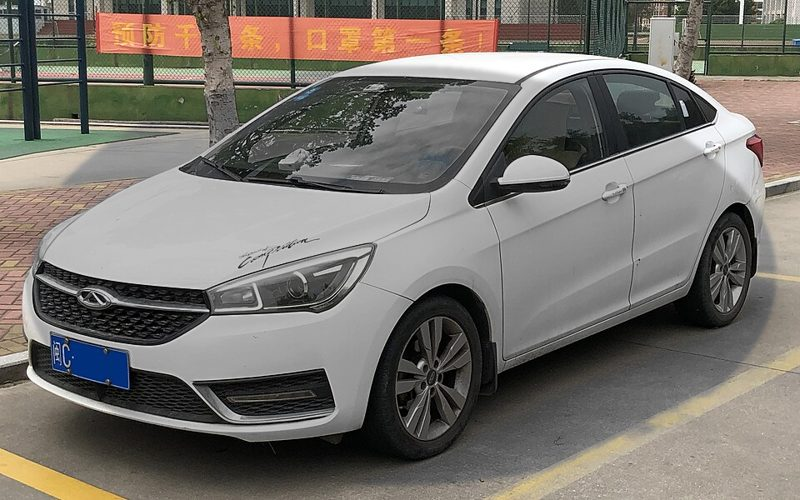
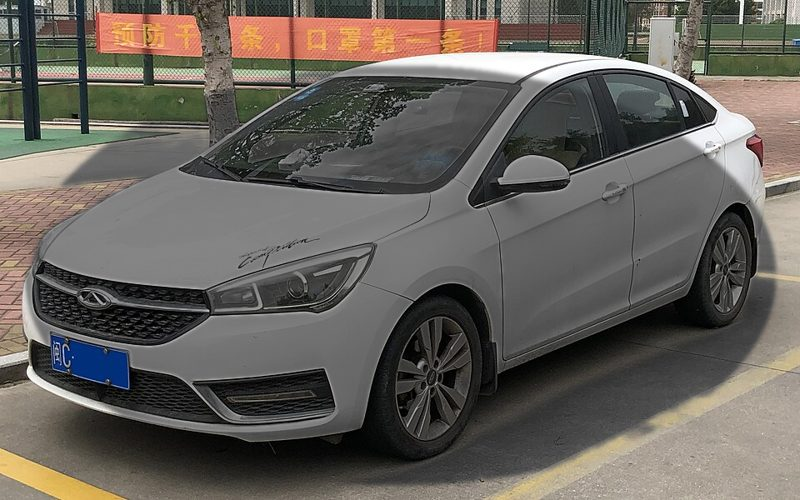
تغميق صورة الشيري للون الرمادي
Claude-Session: https://claude.ai/code/session_01X6gWDs2cVX9V54q5mTENv8

diff --git a/ijar/app.js b/ijar/app.js
@@ -6,7 +6,7 @@
 
   var COLORS = { 'أبيض': '#F7F8FA', 'فضي': '#C3C8CE', 'رمادي': '#8C9299', 'رصاصي': '#5F656C', 'أسود': '#1F2328' };
   var CARS = [
-    { plate: 'أ ص ع 2044', serial: '62395910', name: 'شيري اريزو 5', en: 'Chery Arrizo 5', brand: 'شيري', year: '2023', color: 'رمادي', img: 'img/chery_grey.jpg', daily: true },
+    { plate: 'أ ص ع 2044', serial: '62395910', name: 'شيري اريزو 5', en: 'Chery Arrizo 5', brand: 'شيري', year: '2023', color: 'رمادي', img: 'img/chery_grey.jpg?v=2', daily: true },
     { plate: 'ا ع ح 2628', serial: '618345020', name: 'هيونداي أي تن', en: 'Hyundai i10', brand: 'هيونداي', year: '2024', color: 'فضي', img: 'img/i10_silver.jpg' },
     { plate: 'ا ع ح 8864', serial: '552821710', name: 'ميتسوبيشي اتراج', en: 'Mitsubishi Attrage', brand: 'ميتسوبيشي', year: '2019', color: 'رصاصي', img: 'img/attrage_gunmetal.jpg' },
     { plate: 'أ ط ل 3761', serial: '334939810', name: 'هيونداي اكسنت', en: 'Hyundai Accent', brand: 'هيونداي', year: '2022', color: 'أبيض', img: 'img/accent_white.jpg' },

diff --git a/ijar/index.html b/ijar/index.html
@@ -284,6 +284,6 @@ label{display:flex;flex-direction:column;gap:8px;font-size:14px;color:#374151}
 
 </div>
 
-<script src="app.js?v=3"></script>
+<script src="app.js?v=4"></script>
 </body>
 </html>
